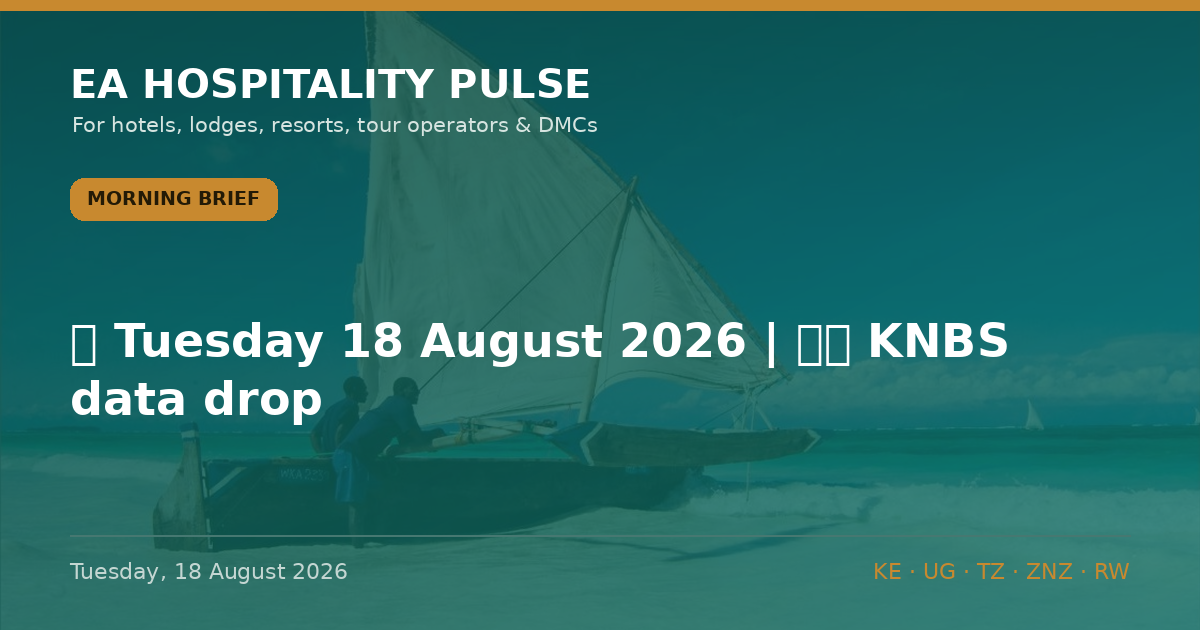
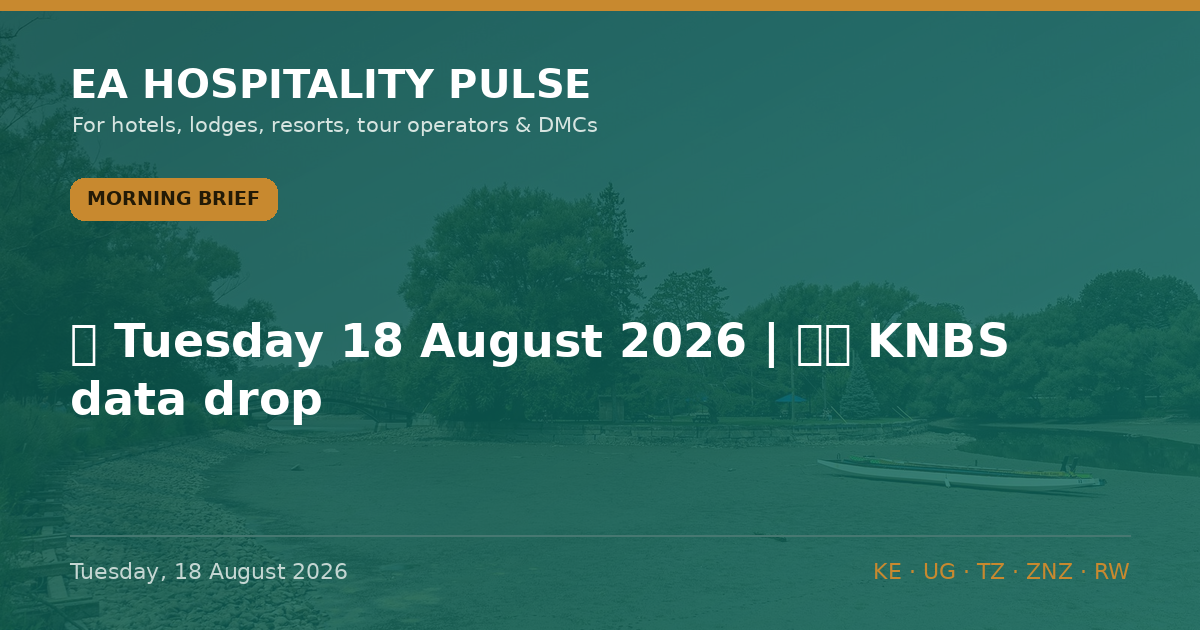
Auto-build: 2026-08-18 06:34 UTC

diff --git a/data.js b/data.js
@@ -1,14 +1,5 @@
 window.EDITIONS = [
  {
-  "id": "pulse-2026-08-18-morning",
-  "date": "2026-08-18",
-  "dateDisplay": "Tuesday, 18 August 2026",
-  "edition": "Morning Brief",
-  "editionKey": "morning",
-  "summary": "1⃣ 🌍 THE AIRLIFT YOU'RE CELEBRATING IS THE LEAST PROFITABLE IN THE WORLD",
-  "bodyHtml": "<p>🌅 <strong>EA HOSPITALITY PULSE — Morning Brief</strong><br>🗓 Tuesday 18 August 2026 | 🌍 🇰🇪 🇺🇬 🇷🇼 🇹🇿</p>\n<p><em>Expert Brief: East Africa is adding air routes faster than its airlines can afford to fly them.</em><br>━━━━━━━━━<br><strong>1⃣ 🌍 THE AIRLIFT YOU&#x27;RE CELEBRATING IS THE LEAST PROFITABLE IN THE WORLD</strong></p>\n<p>Every route launch lands as good news in this business. Uganda Airlines opens Entebbe–Accra on 27 Oct and daily Entebbe–Kigali on 18 Nov (announced 5 Aug, The EastAfrican); Airlink starts Cape Town–Zanzibar on 3 Oct. Read the balance sheet underneath and the mood changes.</p>\n<p>IATA&#x27;s December outlook put African carriers at <strong>US$1.30 of profit per passenger</strong> for 2026 against a <strong>US$7.90</strong> global average — a <strong>1.3% margin, the thinnest of any region</strong> (IATA, 9 Dec 2025). By its June AGM it had cut the 2026 line again: profit per passenger down to <strong>40 US cents</strong> from US$2.10 in 2025, and the continent&#x27;s total net profit halved to <strong>~US$100m</strong> (IATA &quot;Energy in Crisis&quot; outlook, 8 Jun 2026). East Africa&#x27;s recovery is riding on the most fragile airlift economics on the planet.</p>\n<p><strong>What everyone is missing:</strong> a new-route press release reads as demand arriving. It is actually thin-margin capacity being <strong>lent</strong> — and thin-margin capacity is the first thing cut when a season underperforms. Turkish suspended 18 routes for summer 2026, Istanbul–Dar es Salaam among them, final flights in May/June (reported 2026). The route you don&#x27;t help fill in its first two seasons is the route that isn&#x27;t there in year three. Airlift is not infrastructure you inherit; it&#x27;s a trade relationship you keep alive.</p>\n<p><span class=\"tagline\">🏷 City/Bush/Beach · Regional · Confirmed (IATA figures &amp; schedules) / Inference (fragility read)</span><br><span class=\"sowhat\">🎯 <strong>So what — by segment:</strong> <strong>City</strong> (Nairobi/Kigali/Kampala): put corporate blocks and MICE contracts onto the new regional frequencies so they survive to a third season. <strong>Bush:</strong> the luxury pivot means fewer, higher-value guests who still need a long-haul seat — cultivate the carriers that actually serve your source markets. <strong>Beach:</strong> feeder routes are the most fragile of all — a trial like Cape Town–Zanzibar lives or dies on load factor. Fill it or lose it.</span></p>\n<p>━━━━━━━━━<br>✅ <strong>STILL TRUE</strong> — Tanzania &amp; Zanzibar remain US <strong>Level 3</strong> (unchanged since 31 Oct 2025); Kenya <strong>Level 2</strong>, core tourist corridors clear (travel.state.gov, verified 12 Aug). Nothing moved overnight. Don&#x27;t discount as though it had.</p>\n<p>⚡ <strong>COST PULSE</strong> — Nairobi diesel holds at <strong>KSh 217.86/L</strong> to 14 Sep; operators are carrying roughly <strong>KSh 14.28/L above landed-cost parity</strong> — refuse any supplier fuel surcharge this cycle (EPRA / Business Daily, 14 Aug).</p>\n<p>🎤 <strong>MICE WATCH</strong> — <strong>AfPIF</strong> (300–500 delegates) fills the Kigali Marriott cluster <strong>18–20 Aug</strong>; <strong>Hotel Expo Kenya</strong> at KICC, <strong>19–21 Aug</strong>. Hold corporate rate, don&#x27;t discount into the shoulder.</p>\n<p><span class=\"meta-line\">📅 <strong>WEEK AHEAD</strong> — <strong>18 Aug</strong> WHO IHR Committee on the Bundibugyo PHEIC · <strong>22 Aug</strong> Julius Nyerere hydropower inauguration, TZ · <strong>26–28 Aug</strong> Africa Global PR Week, Mövenpick Nairobi · <strong>28 Aug</strong> WTA Africa Gala, Zanzibar · <strong>late Aug</strong> KNBS/UBOS/NISR CPI prints.</span></p>\n<p><span class=\"meta-line\">📡 <strong>RADAR</strong> — 593 in-window observations to 08:17 EAT; feed live. Jambojet and Airlink press pages moved again behind Incapsula — a persistent blind spot, not a quiet night. Kenya Law feed heavy with court judgments, none hospitality. No advisory level moved.</span></p>\n<p><span class=\"meta-line\">💬 Which inbound route would you actually miss — and are you filling it, or just watching it?</span></p>\n<p>🔗 This edition on the web: https://eahospitalitypulse.com/editions/pulse-2026-08-18-morning.html<br>— EA Hospitality Pulse | Daily intelligence for city, bush &amp; beach properties</p>"
- },
- {
   "id": "pulse-2026-08-18-special",
   "date": "2026-08-18",
   "dateDisplay": "Tuesday, 18 August 2026",
@@ -16,6 +7,15 @@ window.EDITIONS = [
   "editionKey": "morning",
   "summary": "🗓 Tuesday 18 August 2026 | 🇰🇪 KNBS data drop",
   "bodyHtml": "<p>📊 <strong>EA HOSPITALITY PULSE — Special Edition</strong><br>🗓 Tuesday 18 August 2026 | 🇰🇪 KNBS data drop</p>\n<p><em>Kenya&#x27;s arrivals are up — but not where the headline says. Read the map before the margin.</em><br>━━━━━━━━━<br><strong>1⃣ 🇰🇪 THE COAST IS OUTGROWING THE GATEWAY — AND THE NATIONAL NUMBER HIDES IT</strong></p>\n<p>Official visitor arrivals now run through April. Jan–Apr 2026: <strong>828,830, up 9.5%</strong> on the same months of 2025 (757,245) — Kenya Leading Economic Indicators, June 2026, KNBS, released 14 Aug.</p>\n<p>The headline is real. The distribution is the story. Mombasa&#x27;s Moi International (MIA) took <strong>96,701 arrivals, up 19.7%</strong> year-on-year, while JKIA grew <strong>8.5%</strong> and land borders <strong>7.5%</strong>. The coast is recovering over twice as fast as the Nairobi gateway.</p>\n<p><strong>What everyone is missing:</strong> the +9.5% is not evenly yours. In April — the long-rains trough — national arrivals rose just 2.9% and <strong>JKIA fell 1.0%</strong> YoY. Strip the coast out and the city-gateway recovery is modest and seasonal. A Nairobi GM reading &quot;+9.5%&quot; as their own demand is reading the wrong line. Backing it: SGR passengers ran <strong>~12% ahead</strong> in Q1 — the Nairobi–Mombasa corridor is carrying this (KNBS).</p>\n<p><span class=\"tagline\">🏷 City/Beach · Kenya · Confirmed (KNBS arrivals &amp; SGR) / Inference (regional read)</span><br><span class=\"sowhat\">🎯 <strong>So what:</strong> <strong>Coast</strong> — demand is arriving; hold rate through the Sep–Oct build and stop discounting. <strong>Nairobi</strong> — treat H1 as flat-to-soft on your own gateway; win share through corporate, MICE and regional traffic, not a rising tide.</span></p>\n<p><strong>2⃣ 🇰🇪 THE CURRENCY IS QUIETLY REPRICING YOUR EUROPEAN GUEST</strong></p>\n<p>Over H1 2026 the shilling <strong>firmed</strong> against sterling (174.32→<strong>172.72</strong>) and the euro (151.37→<strong>149.22</strong>), flat against the dollar at <strong>~129.5</strong> (KNBS, June). Inflation sat at <strong>6.4%</strong>, the CBR held at <strong>8.75%</strong>.</p>\n<p>Read together: a European operator&#x27;s fixed FX budget now buys <strong>fewer shillings</strong> than in January — mild pressure on any KES-cost property selling into Europe, while dollar-priced lodges keep their spread intact.</p>\n<p><span class=\"tagline\">🏷 City/Bush/Beach · Kenya · Confirmed (KNBS forex/CPI) / Inference (pricing read)</span><br><span class=\"sowhat\">🎯 <strong>So what:</strong> If you cost in shillings and sell in euros or pounds, revisit 2027 contract rates now — the FX drift is against you. Price in USD and you&#x27;re insulated.</span></p>\n<p>━━━━━━━━━<br>🍲 <strong>SUPPLY-CHAIN SIDEBAR — where your southern-circuit kitchen shops</strong></p>\n<p>Informal cross-border trade <strong>fell 16.7%</strong> in 2025 (KSh 299.0m→249.1m), and <strong>Tanzania became the top source of informal imports at 47.2%</strong>, overwhelmingly <strong>food and live animals (78.5%)</strong> — KNBS Informal Cross-Border Trade Survey 2025, released 17 Aug. Main entry points: <strong>Namanga, Isebania, Malaba</strong> — the Amboseli, Mara and Uganda corridors.</p>\n<p><span class=\"sowhat\">🎯 <strong>So what:</strong> Southern-circuit lodges run partly on this informal Tanzanian fresh-food flow. A contracting, Tanzania-concentrated supply line is a produce-cost and continuity risk — worth a word with your F&amp;B suppliers before high season. 🏷 Bush · Confirmed (KNBS ICBT) / Inference.</span></p>\n<p>━━━━━━━━━<br>✅ <strong>STILL TRUE</strong> — Kenya remains US <strong>Level 2</strong>; core corridors (Nairobi, Diani, Watamu) sit in no Level 4 area (travel.state.gov, verified 12 Aug). Don&#x27;t discount on a story that hasn&#x27;t moved.</p>\n<p>⚡ <strong>COST PULSE</strong> — Nairobi diesel holds <strong>KSh 217.86/L</strong> to 14 Sep, ~KSh 14.28/L above landed-cost parity (EPRA / Business Daily, 14 Aug).</p>\n<p><span class=\"meta-line\">📅 <strong>WEEK AHEAD</strong> — <strong>19–21 Aug</strong> Hotel Expo Kenya, KICC · <strong>26–28 Aug</strong> Africa Global PR Week, Nairobi. Watch the <strong>May–June arrivals</strong> print to confirm the coast trend.</span></p>\n<p>🔗 This edition on the web: https://eahospitalitypulse.com/editions/pulse-2026-08-18-special.html<br>— EA Hospitality Pulse | Daily intelligence for city, bush &amp; beach properties</p>"
+ },
+ {
+  "id": "pulse-2026-08-18-morning",
+  "date": "2026-08-18",
+  "dateDisplay": "Tuesday, 18 August 2026",
+  "edition": "Morning Brief",
+  "editionKey": "morning",
+  "summary": "1⃣ 🌍 THE AIRLIFT YOU'RE CELEBRATING IS THE LEAST PROFITABLE IN THE WORLD",
+  "bodyHtml": "<p>🌅 <strong>EA HOSPITALITY PULSE — Morning Brief</strong><br>🗓 Tuesday 18 August 2026 | 🌍 🇰🇪 🇺🇬 🇷🇼 🇹🇿</p>\n<p><em>Expert Brief: East Africa is adding air routes faster than its airlines can afford to fly them.</em><br>━━━━━━━━━<br><strong>1⃣ 🌍 THE AIRLIFT YOU&#x27;RE CELEBRATING IS THE LEAST PROFITABLE IN THE WORLD</strong></p>\n<p>Every route launch lands as good news in this business. Uganda Airlines opens Entebbe–Accra on 27 Oct and daily Entebbe–Kigali on 18 Nov (announced 5 Aug, The EastAfrican); Airlink starts Cape Town–Zanzibar on 3 Oct. Read the balance sheet underneath and the mood changes.</p>\n<p>IATA&#x27;s December outlook put African carriers at <strong>US$1.30 of profit per passenger</strong> for 2026 against a <strong>US$7.90</strong> global average — a <strong>1.3% margin, the thinnest of any region</strong> (IATA, 9 Dec 2025). By its June AGM it had cut the 2026 line again: profit per passenger down to <strong>40 US cents</strong> from US$2.10 in 2025, and the continent&#x27;s total net profit halved to <strong>~US$100m</strong> (IATA &quot;Energy in Crisis&quot; outlook, 8 Jun 2026). East Africa&#x27;s recovery is riding on the most fragile airlift economics on the planet.</p>\n<p><strong>What everyone is missing:</strong> a new-route press release reads as demand arriving. It is actually thin-margin capacity being <strong>lent</strong> — and thin-margin capacity is the first thing cut when a season underperforms. Turkish suspended 18 routes for summer 2026, Istanbul–Dar es Salaam among them, final flights in May/June (reported 2026). The route you don&#x27;t help fill in its first two seasons is the route that isn&#x27;t there in year three. Airlift is not infrastructure you inherit; it&#x27;s a trade relationship you keep alive.</p>\n<p><span class=\"tagline\">🏷 City/Bush/Beach · Regional · Confirmed (IATA figures &amp; schedules) / Inference (fragility read)</span><br><span class=\"sowhat\">🎯 <strong>So what — by segment:</strong> <strong>City</strong> (Nairobi/Kigali/Kampala): put corporate blocks and MICE contracts onto the new regional frequencies so they survive to a third season. <strong>Bush:</strong> the luxury pivot means fewer, higher-value guests who still need a long-haul seat — cultivate the carriers that actually serve your source markets. <strong>Beach:</strong> feeder routes are the most fragile of all — a trial like Cape Town–Zanzibar lives or dies on load factor. Fill it or lose it.</span></p>\n<p>━━━━━━━━━<br>✅ <strong>STILL TRUE</strong> — Tanzania &amp; Zanzibar remain US <strong>Level 3</strong> (unchanged since 31 Oct 2025); Kenya <strong>Level 2</strong>, core tourist corridors clear (travel.state.gov, verified 12 Aug). Nothing moved overnight. Don&#x27;t discount as though it had.</p>\n<p>⚡ <strong>COST PULSE</strong> — Nairobi diesel holds at <strong>KSh 217.86/L</strong> to 14 Sep; operators are carrying roughly <strong>KSh 14.28/L above landed-cost parity</strong> — refuse any supplier fuel surcharge this cycle (EPRA / Business Daily, 14 Aug).</p>\n<p>🎤 <strong>MICE WATCH</strong> — <strong>AfPIF</strong> (300–500 delegates) fills the Kigali Marriott cluster <strong>18–20 Aug</strong>; <strong>Hotel Expo Kenya</strong> at KICC, <strong>19–21 Aug</strong>. Hold corporate rate, don&#x27;t discount into the shoulder.</p>\n<p><span class=\"meta-line\">📅 <strong>WEEK AHEAD</strong> — <strong>18 Aug</strong> WHO IHR Committee on the Bundibugyo PHEIC · <strong>22 Aug</strong> Julius Nyerere hydropower inauguration, TZ · <strong>26–28 Aug</strong> Africa Global PR Week, Mövenpick Nairobi · <strong>28 Aug</strong> WTA Africa Gala, Zanzibar · <strong>late Aug</strong> KNBS/UBOS/NISR CPI prints.</span></p>\n<p><span class=\"meta-line\">📡 <strong>RADAR</strong> — 593 in-window observations to 08:17 EAT; feed live. Jambojet and Airlink press pages moved again behind Incapsula — a persistent blind spot, not a quiet night. Kenya Law feed heavy with court judgments, none hospitality. No advisory level moved.</span></p>\n<p><span class=\"meta-line\">💬 Which inbound route would you actually miss — and are you filling it, or just watching it?</span></p>\n<p>🔗 This edition on the web: https://eahospitalitypulse.com/editions/pulse-2026-08-18-morning.html<br>— EA Hospitality Pulse | Daily intelligence for city, bush &amp; beach properties</p>"
  },
  {
   "id": "pulse-2026-08-17-evening",
@@ -2038,4 +2038,4 @@ window.INSIGHTS = [
   "editionKey": "evening"
  }
 ];
-window.BUILT_AT = "2026-08-18 09:32";
+window.BUILT_AT = "2026-08-18 06:33";

diff --git a/editions/pulse-2026-08-18-special.html b/editions/pulse-2026-08-18-special.html
@@ -122,7 +122,7 @@ footer.s{text-align:center;color:var(--muted);font-family:Helvetica Neue,Arial,s
 <div class="wrap">
   <article class="art">
     <img class="hero" src="../og/pulse-2026-08-18-special-clean.png" alt="Morning Brief — Tuesday, 18 August 2026" loading="eager">
-    
+    <p class="hcredit">Photo: Chris Woodrich · <a href="https://commons.wikimedia.org/wiki/File:Banks_of_Lake_Victoria_(drained),_Stratford,_Ontario,_2025-08-04.jpg" target="_blank" rel="noopener nofollow">Wikimedia Commons</a> · <a href="https://creativecommons.org/licenses/by-sa/4.0" target="_blank" rel="noopener nofollow">CC BY-SA 4.0</a></p>
     <nav class="crumbs" aria-label="Breadcrumb"><a href="../index.html">Home</a><span aria-hidden="true">/</span><a href="../index.html#archive">Editions</a><span aria-hidden="true">/</span><span aria-current="page">Morning Brief, Tuesday, 18 August 2026</span></nav>
     <div class="kicker"><span class="badge">Morning Brief</span><time datetime="2026-08-18">Tuesday, 18 August 2026</time></div>
     <h1>Tuesday 18 August 2026 | KNBS data drop.</h1>
@@ -145,7 +145,7 @@ footer.s{text-align:center;color:var(--muted);font-family:Helvetica Neue,Arial,s
 <p>🔗 This edition on the web: https://eahospitalitypulse.com/editions/pulse-2026-08-18-special.html<br>— EA Hospitality Pulse | Daily intelligence for city, bush &amp; beach properties</p>
     <div class="more"><b>More from Tuesday, 18 August 2026:</b> <a href="pulse-2026-08-18-morning.html">Morning Brief</a></div>
     <aside class="refs" aria-label="Reference guides"><h2>Reference</h2><ul><li><a href="../guides/ota-commission-what-it-actually-costs.html">What OTA commission actually costs an East African hotel</a></li><li><a href="../guides/park-permit-fees-east-africa.html">Park and permit fees across East Africa: what to check before you quote</a></li><li><a href="../guides/sustainability-compliance-east-africa.html">Sustainability compliance in East Africa — plastics, carbon and certification, without the hype</a></li><li><a href="../guides/tech-stack-east-africa.html">The East African hotel tech stack — payment costs, PMS fit and where AI pricing actually works</a></li><li><a href="../guides/travel-advisories-what-actually-moves-bookings.html">Reading a travel advisory: what actually moves bookings</a></li></ul></aside>
-    <nav class="pnrow"><a class="pn prev" href="pulse-2026-08-17-evening.html" rel="prev">← Evening Wrap · Monday, 17 August 2026</a><a class="pn next" href="pulse-2026-08-18-morning.html" rel="next">Morning Brief · Tuesday, 18 August 2026 →</a></nav>
+    <nav class="pnrow"><a class="pn prev" href="pulse-2026-08-18-morning.html" rel="prev">← Morning Brief · Tuesday, 18 August 2026</a></nav>
     <div class="sub">
       <b>Follow the Pulse</b> — three briefs a day across Kenya, Uganda, Tanzania, Zanzibar &amp; Rwanda.<br>
       <a href="https://t.me/eahospitalitypulse" target="_blank" rel="noopener">📣 Telegram (full editions)</a>

diff --git a/editions/pulse-2026-08-17-evening.html b/editions/pulse-2026-08-17-evening.html
@@ -139,7 +139,7 @@ footer.s{text-align:center;color:var(--muted);font-family:Helvetica Neue,Arial,s
 <p>🔗 This edition on the web: https://eahospitalitypulse.com/editions/pulse-2026-08-17-evening.html<br>💼 Today&#x27;s Big Read on LinkedIn: https://www.linkedin.com/company/ea-hospitality-pulse/<br>— EA Hospitality Pulse | Daily intelligence for city, bush &amp; beach properties</p>
     <div class="more"><b>More from Monday, 17 August 2026:</b> <a href="pulse-2026-08-17-midday.html">Midday Pulse</a></div>
     <aside class="refs" aria-label="Reference guides"><h2>Reference</h2><ul><li><a href="../guides/ota-commission-what-it-actually-costs.html">What OTA commission actually costs an East African hotel</a></li><li><a href="../guides/park-permit-fees-east-africa.html">Park and permit fees across East Africa: what to check before you quote</a></li><li><a href="../guides/sustainability-compliance-east-africa.html">Sustainability compliance in East Africa — plastics, carbon and certification, without the hype</a></li><li><a href="../guides/tech-stack-east-africa.html">The East African hotel tech stack — payment costs, PMS fit and where AI pricing actually works</a></li><li><a href="../guides/travel-advisories-what-actually-moves-bookings.html">Reading a travel advisory: what actually moves bookings</a></li></ul></aside>
-    <nav class="pnrow"><a class="pn prev" href="pulse-2026-08-17-midday.html" rel="prev">← Midday Pulse · Monday, 17 August 2026</a><a class="pn next" href="pulse-2026-08-18-special.html" rel="next">Morning Brief · Tuesday, 18 August 2026 →</a></nav>
+    <nav class="pnrow"><a class="pn prev" href="pulse-2026-08-17-midday.html" rel="prev">← Midday Pulse · Monday, 17 August 2026</a><a class="pn next" href="pulse-2026-08-18-morning.html" rel="next">Morning Brief · Tuesday, 18 August 2026 →</a></nav>
     <div class="sub">
       <b>Follow the Pulse</b> — three briefs a day across Kenya, Uganda, Tanzania, Zanzibar &amp; Rwanda.<br>
       <a href="https://t.me/eahospitalitypulse" target="_blank" rel="noopener">📣 Telegram (full editions)</a>

diff --git a/editions/pulse-2026-08-18-morning.html b/editions/pulse-2026-08-18-morning.html
@@ -141,7 +141,7 @@ footer.s{text-align:center;color:var(--muted);font-family:Helvetica Neue,Arial,s
 <p>🔗 This edition on the web: https://eahospitalitypulse.com/editions/pulse-2026-08-18-morning.html<br>— EA Hospitality Pulse | Daily intelligence for city, bush &amp; beach properties</p>
     <div class="more"><b>More from Tuesday, 18 August 2026:</b> <a href="pulse-2026-08-18-special.html">Morning Brief</a></div>
     <aside class="refs" aria-label="Reference guides"><h2>Reference</h2><ul><li><a href="../guides/ota-commission-what-it-actually-costs.html">What OTA commission actually costs an East African hotel</a></li><li><a href="../guides/park-permit-fees-east-africa.html">Park and permit fees across East Africa: what to check before you quote</a></li><li><a href="../guides/sustainability-compliance-east-africa.html">Sustainability compliance in East Africa — plastics, carbon and certification, without the hype</a></li><li><a href="../guides/tech-stack-east-africa.html">The East African hotel tech stack — payment costs, PMS fit and where AI pricing actually works</a></li><li><a href="../guides/travel-advisories-what-actually-moves-bookings.html">Reading a travel advisory: what actually moves bookings</a></li></ul></aside>
-    <nav class="pnrow"><a class="pn prev" href="pulse-2026-08-18-special.html" rel="prev">← Morning Brief · Tuesday, 18 August 2026</a></nav>
+    <nav class="pnrow"><a class="pn prev" href="pulse-2026-08-17-evening.html" rel="prev">← Evening Wrap · Monday, 17 August 2026</a><a class="pn next" href="pulse-2026-08-18-special.html" rel="next">Morning Brief · Tuesday, 18 August 2026 →</a></nav>
     <div class="sub">
       <b>Follow the Pulse</b> — three briefs a day across Kenya, Uganda, Tanzania, Zanzibar &amp; Rwanda.<br>
       <a href="https://t.me/eahospitalitypulse" target="_blank" rel="noopener">📣 Telegram (full editions)</a>

diff --git a/index.html b/index.html
@@ -395,7 +395,7 @@
     a{color:#000}
   }
 </style>
-<!--BUILD_STAMP:20260818-0932--></head>
+<!--BUILD_STAMP:20260818-0633--></head>
 <body>
 <header class="site">
   <div class="wrap topbar">

diff --git a/ledger.js b/ledger.js
@@ -1,5 +1,5 @@
 window.LEDGER = {
- "updated": "2026-08-18 09:32",
+ "updated": "2026-08-18 06:34",
  "stats": {
   "total": 104,
   "open": 84,
